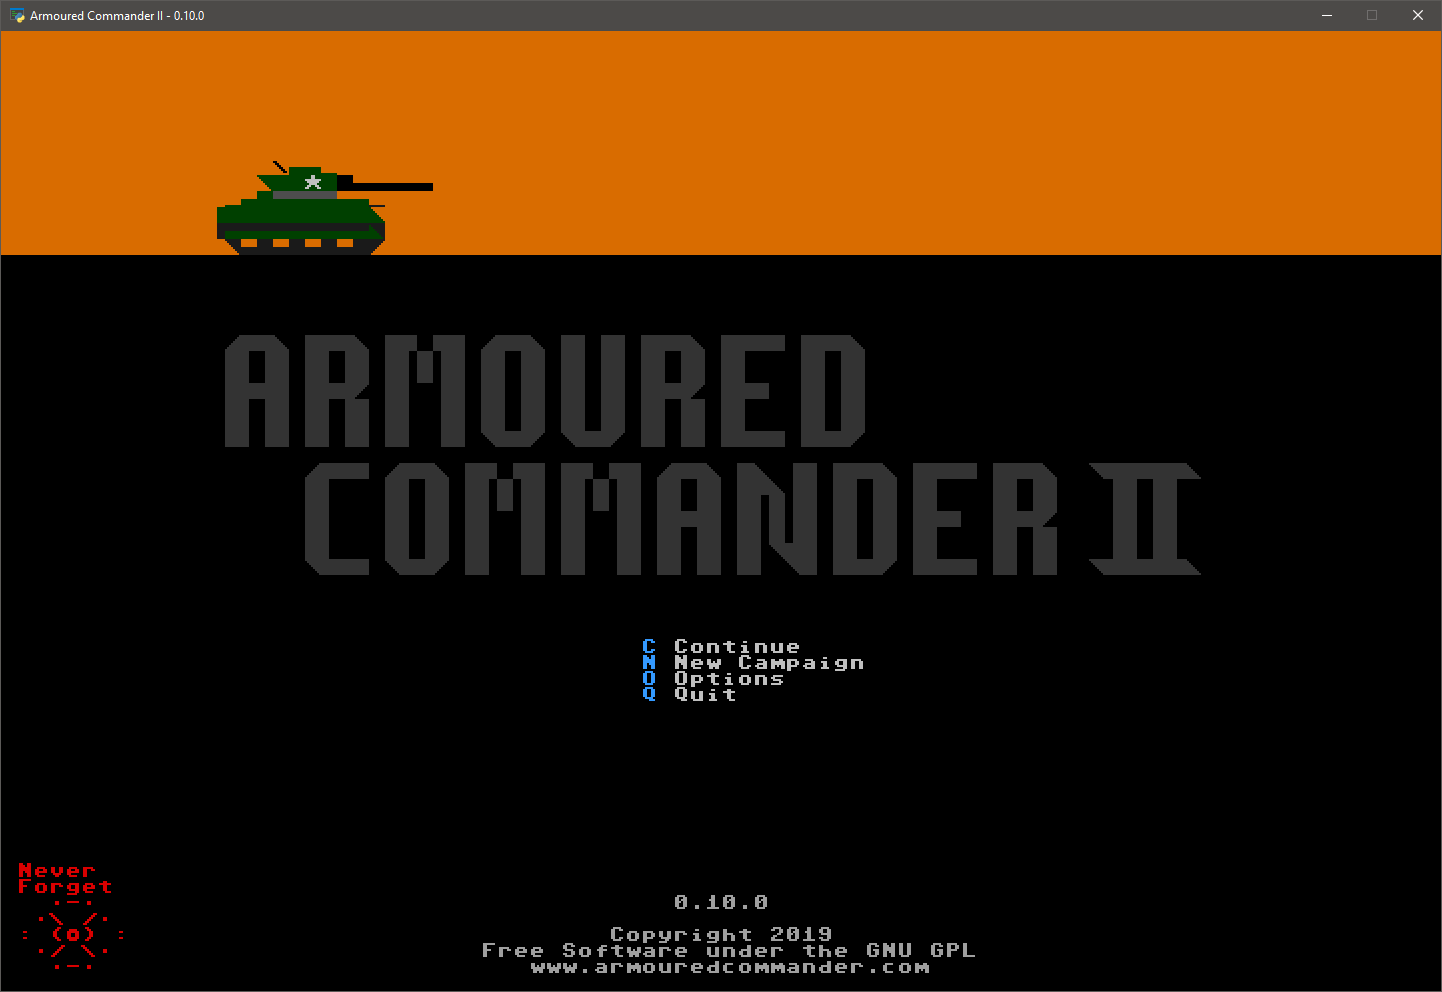
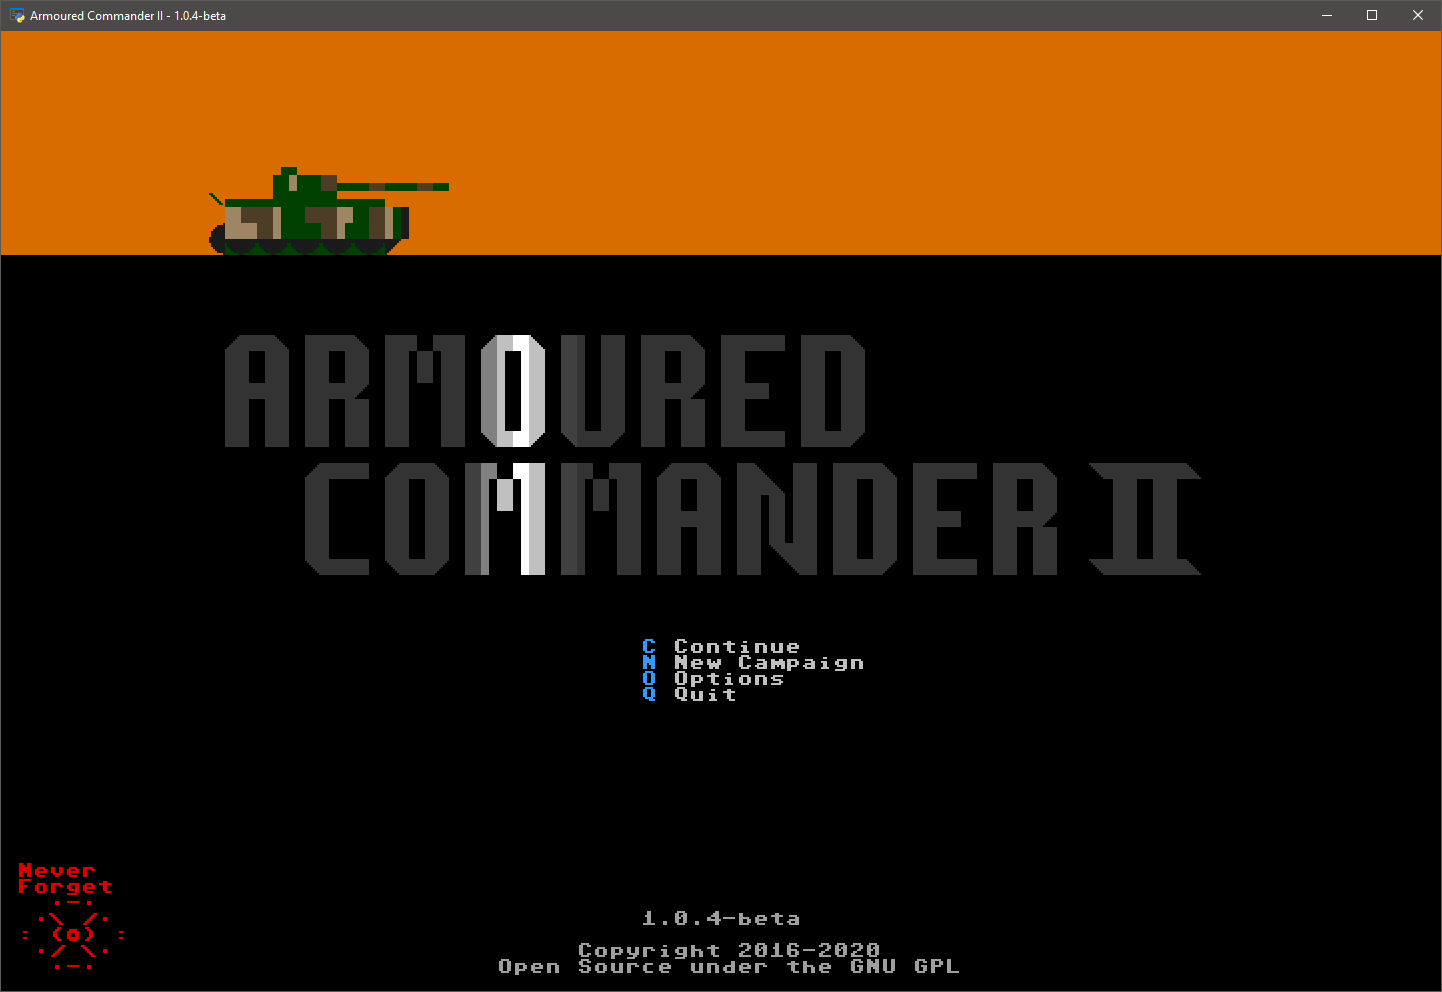
Finally working on updating manual

diff --git a/armcom2.py b/armcom2.py
@@ -63,9 +63,9 @@ from calendar import monthrange				# for date calculations
 #                                        Constants                                       #
 ##########################################################################################
 
-DEBUG = False						# debug flag - set to False in all distribution versions
+DEBUG = True						# debug flag - set to False in all distribution versions
 NAME = 'Armoured Commander II'				# game name
-VERSION = '1.0.3-beta'					# game version
+VERSION = '1.0.4-beta'					# game version
 DATAPATH = 'data/'.replace('/', os.sep)			# path to data files
 SOUNDPATH = 'sounds/'.replace('/', os.sep)		# path to sound samples
 CAMPAIGNPATH = 'campaigns/'.replace('/', os.sep)	# path to campaign files
